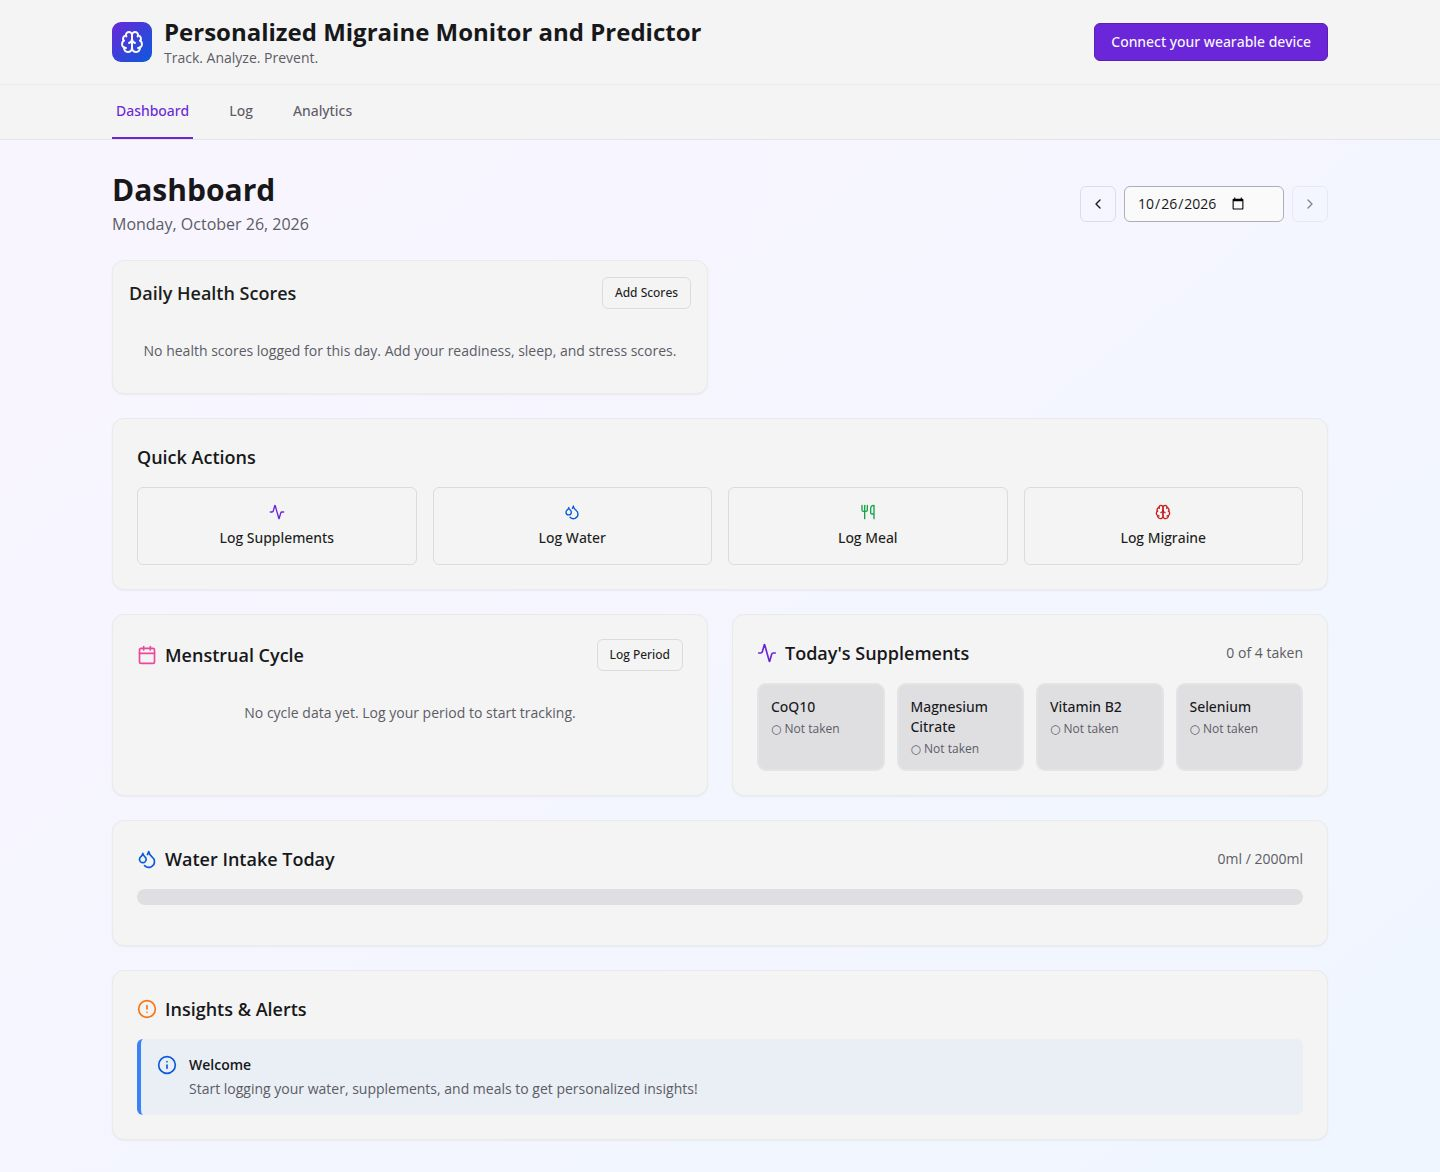
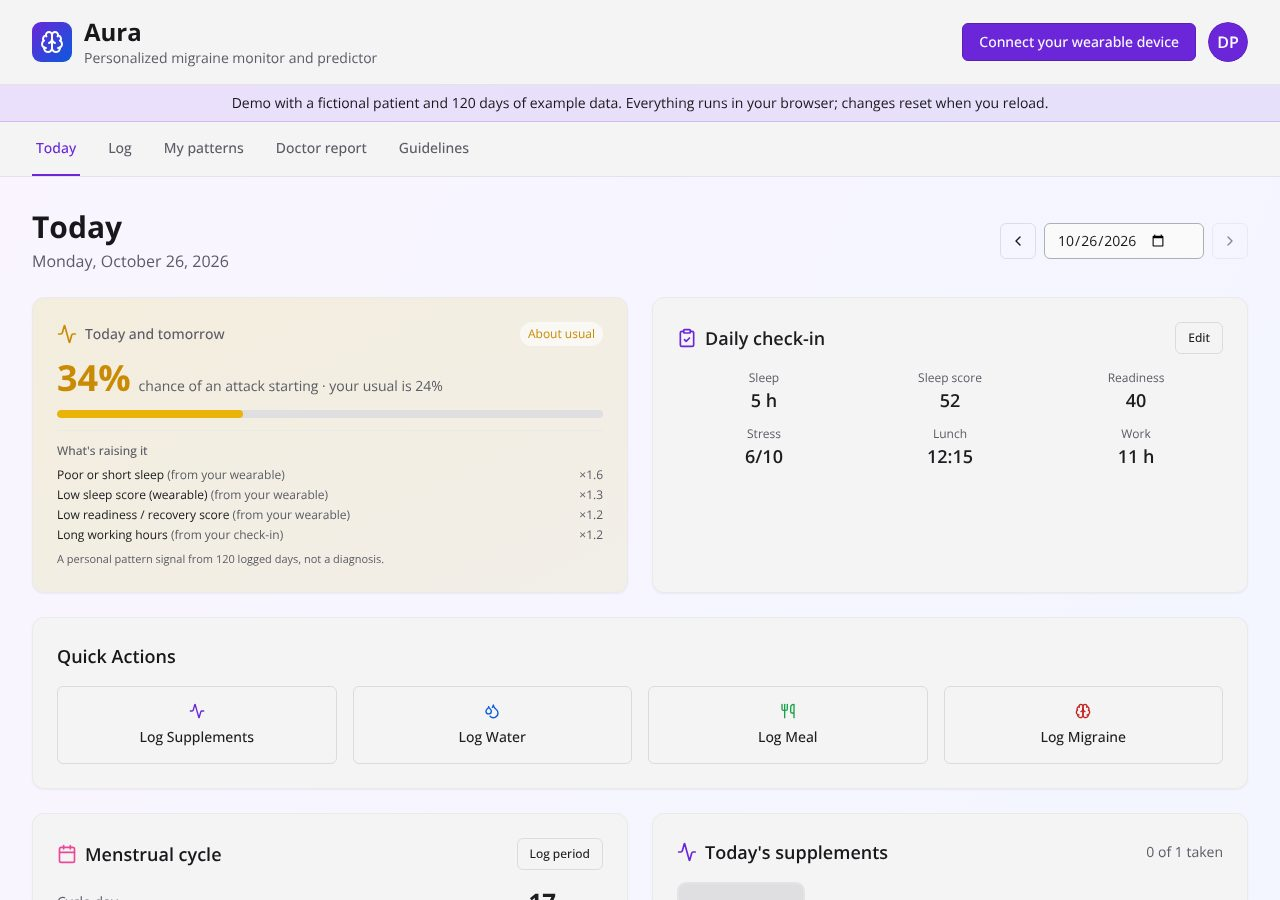
Port the last rep-from-replit changes to the rebuilt app
From rep-from-replit 4199468 and 318eb02:
- My patterns (the old Analytics page) shows an error with a retry
  instead of loading forever when the API fails;
- the cycle chart shows an empty state when no attacks are logged;
- the README gets a My patterns screenshot. All three screenshots are
  retaken from the current app.

Claude-Session: https://claude.ai/code/session_011BK8b5z2FUC2E7wVMcFKXN

diff --git a/client/src/components/CycleAnalyticsChart.tsx b/client/src/components/CycleAnalyticsChart.tsx
@@ -32,17 +32,21 @@ export default function CycleAnalyticsChart({ data }: { data: CyclePhaseRow[] })
           ? `${Math.round(peri.attackShare * 100)}% of your attacks started in the days around your period, which make up ${Math.round(peri.dayShare * 100)}% of your days (${peri.ratio.toFixed(1)}× what chance alone would give).`
           : "Log periods and attacks to see whether a part of your cycle stands out."}
       </p>
-      <ResponsiveContainer width="100%" height={260}>
-        <BarChart data={rows}>
-          <CartesianGrid strokeDasharray="3 3" stroke="hsl(var(--border))" />
-          <XAxis dataKey="name" stroke="hsl(var(--muted-foreground))" fontSize={12} />
-          <YAxis unit="%" stroke="hsl(var(--muted-foreground))" fontSize={12} />
-          <Tooltip contentStyle={{ backgroundColor: "hsl(var(--card))", border: "1px solid hsl(var(--border))", borderRadius: "0.5rem" }} />
-          <Legend />
-          <Bar dataKey="attacks" name="Share of attacks" fill="hsl(var(--chart-1))" radius={[4, 4, 0, 0]} />
-          <Bar dataKey="days" name="Share of days" fill="hsl(var(--muted-foreground))" fillOpacity={0.35} radius={[4, 4, 0, 0]} />
-        </BarChart>
-      </ResponsiveContainer>
+      {data.some((d) => d.attacks > 0) ? (
+        <ResponsiveContainer width="100%" height={260}>
+          <BarChart data={rows}>
+            <CartesianGrid strokeDasharray="3 3" stroke="hsl(var(--border))" />
+            <XAxis dataKey="name" stroke="hsl(var(--muted-foreground))" fontSize={12} />
+            <YAxis unit="%" stroke="hsl(var(--muted-foreground))" fontSize={12} />
+            <Tooltip contentStyle={{ backgroundColor: "hsl(var(--card))", border: "1px solid hsl(var(--border))", borderRadius: "0.5rem" }} />
+            <Legend />
+            <Bar dataKey="attacks" name="Share of attacks" fill="hsl(var(--chart-1))" radius={[4, 4, 0, 0]} />
+            <Bar dataKey="days" name="Share of days" fill="hsl(var(--muted-foreground))" fillOpacity={0.35} radius={[4, 4, 0, 0]} />
+          </BarChart>
+        </ResponsiveContainer>
+      ) : (
+        <p className="py-12 text-center text-sm text-muted-foreground">No attacks logged alongside your cycle yet.</p>
+      )}
     </Card>
   );
 }

diff --git a/client/src/pages/Insights.tsx b/client/src/pages/Insights.tsx
@@ -50,7 +50,7 @@ function Stat({ label, value, sub }: { label: string; value: string | number; su
 }
 
 export default function Insights({ date }: { date: string }) {
-  const { data } = useQuery<InsightsData>({ queryKey: [`/api/insights?date=${date}`] });
+  const { data, isError, refetch } = useQuery<InsightsData>({ queryKey: [`/api/insights?date=${date}`] });
   const { data: trends = [] } = useQuery<{ date: string; readiness: number | null; sleep: number | null; stress: number | null; migraine: number }[]>({
     queryKey: [`/api/trends?date=${date}&days=30`],
   });
@@ -63,6 +63,15 @@ export default function Insights({ date }: { date: string }) {
       }),
     onSuccess: () => invalidateAll(),
   });
+  if (isError)
+    return (
+      <p role="alert" className="text-sm text-destructive">
+        Couldn't load your patterns right now.{" "}
+        <button className="underline" onClick={() => refetch()}>
+          Try again
+        </button>
+      </p>
+    );
   if (!data) return <p className="text-muted-foreground">Loading…</p>;
   const s = data.summary30;
 

diff --git a/README.md b/README.md
@@ -22,6 +22,10 @@ To try the demo yourself, run `npm run build:demo` and open `dist/demo/migraine-
 
 ![Dashboard on mobile](screenshots/aura-ux-mobile.jpg)
 
+**My patterns**
+
+![My patterns: what your data shows](screenshots/analytics-ux.jpg)
+
 ## What it does
 
 - **Logging:** quick logs for water, meals (with time), supplements and periods (manual entry or CSV import from Clue, Flo, Fitbit, Oura or Garmin).
